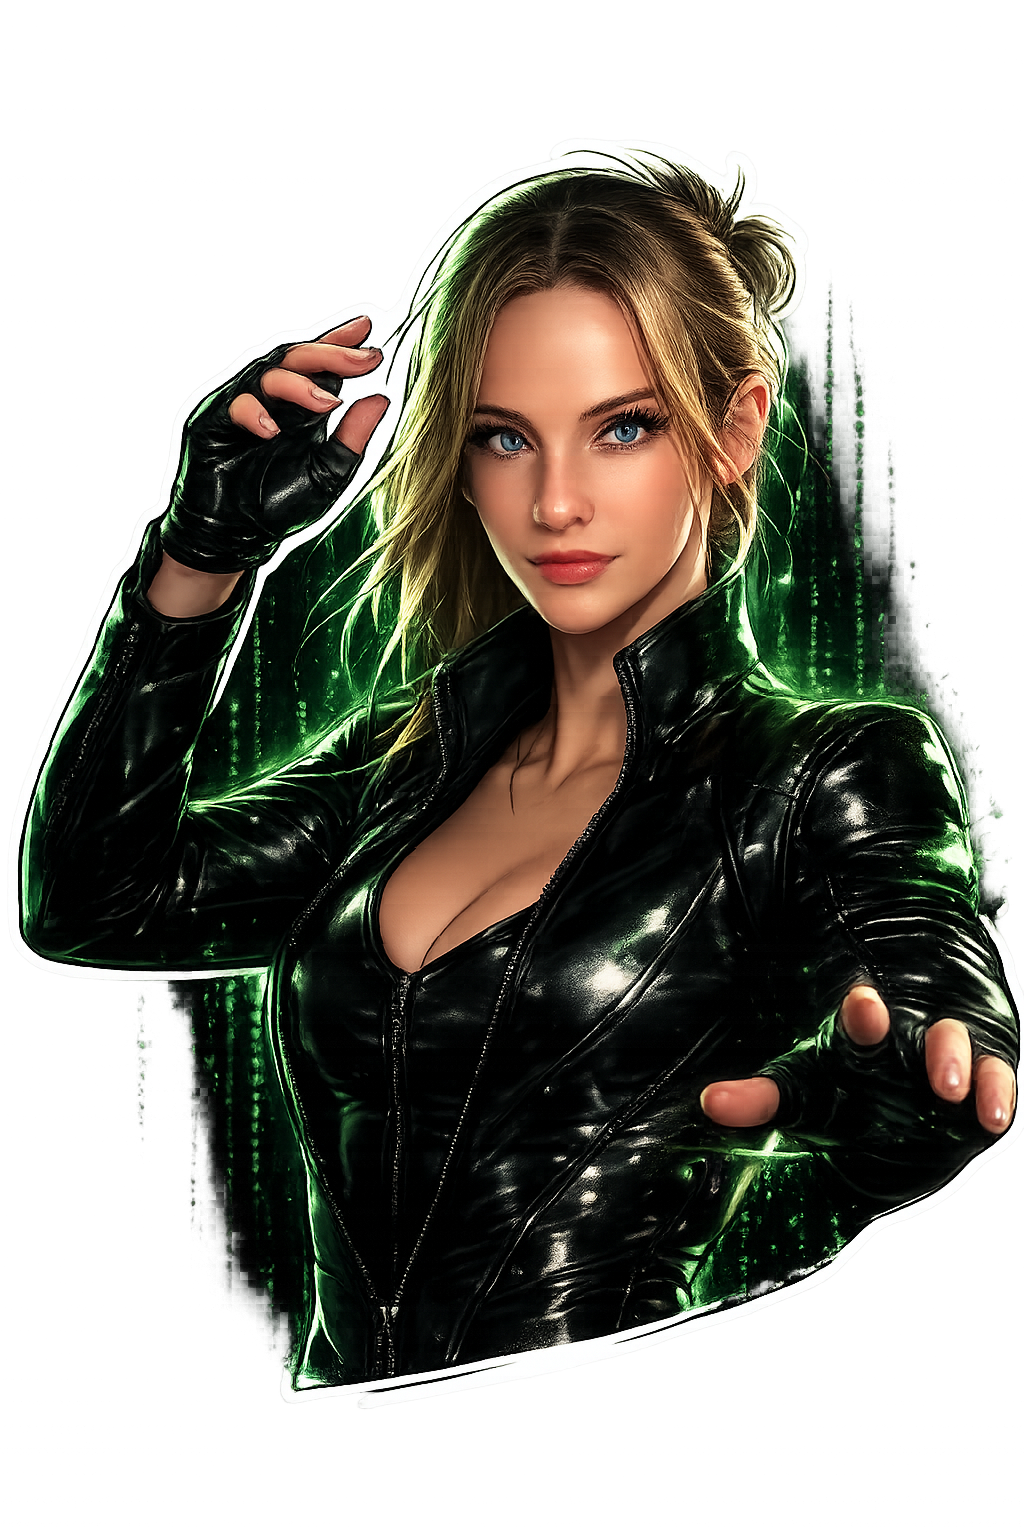
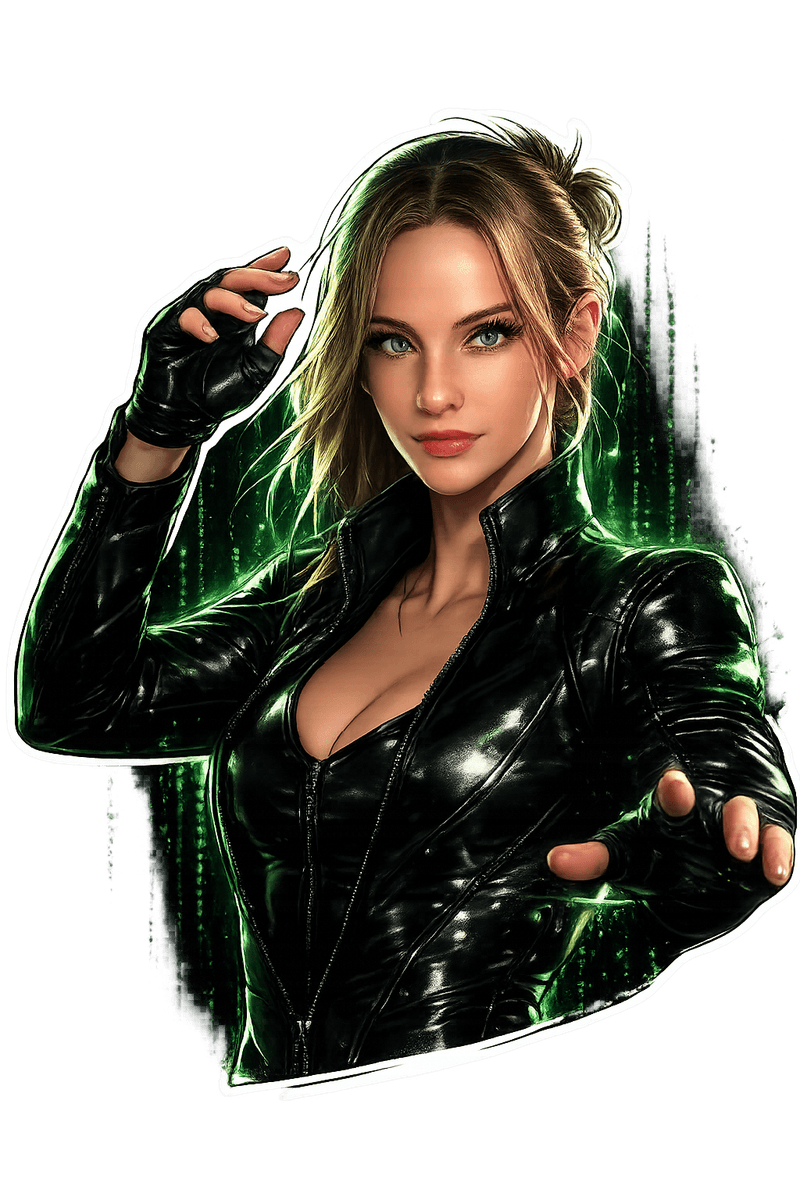
feat: update build command and add image optimization script
- Changed build command from npm to pnpm in netlify.toml for consistency.
- Added prebuild and optimize-images scripts in package.json to automate image optimization.
- Introduced sharp dependency for image processing and added a new optimize-images.js script to compress images over a specified size.
- Updated pnpm-lock.yaml to include sharp dependency.
- Modified several image files in the public directory for optimization.

diff --git a/scripts/optimize-images.js b/scripts/optimize-images.js
@@ -1,0 +1,148 @@
+#!/usr/bin/env node
+
+/**
+ * Image Optimization Script
+ * Automatically compresses PNG/JPG images that are over the size threshold.
+ * Run manually: node scripts/optimize-images.js
+ * Runs automatically before build via package.json
+ */
+
+const sharp = require('sharp');
+const fs = require('fs');
+const path = require('path');
+
+// Configuration
+const CONFIG = {
+  // Directories to scan for images
+  directories: ['./public/images', './public/music'],
+  // Only optimize images larger than this (in bytes)
+  sizeThreshold: 500 * 1024, // 500KB
+  // Maximum dimensions (maintains aspect ratio)
+  maxWidth: 1200,
+  maxHeight: 1200,
+  // Quality settings
+  pngQuality: 80,
+  jpegQuality: 85,
+  // Compression level for PNG (0-9)
+  compressionLevel: 9,
+};
+
+async function findImages(dir, images = []) {
+  if (!fs.existsSync(dir)) return images;
+
+  const entries = fs.readdirSync(dir, { withFileTypes: true });
+
+  for (const entry of entries) {
+    const fullPath = path.join(dir, entry.name);
+
+    if (entry.isDirectory()) {
+      await findImages(fullPath, images);
+    } else if (/\.(png|jpg|jpeg)$/i.test(entry.name)) {
+      images.push(fullPath);
+    }
+  }
+
+  return images;
+}
+
+async function optimizeImage(filePath) {
+  const stats = fs.statSync(filePath);
+  const sizeBefore = stats.size;
+
+  // Skip if under threshold
+  if (sizeBefore <= CONFIG.sizeThreshold) {
+    return { skipped: true, reason: 'under threshold' };
+  }
+
+  const ext = path.extname(filePath).toLowerCase();
+  const tempPath = filePath + '.tmp';
+
+  try {
+    let pipeline = sharp(filePath).resize(CONFIG.maxWidth, CONFIG.maxHeight, {
+      fit: 'inside',
+      withoutEnlargement: true,
+    });
+
+    if (ext === '.png') {
+      pipeline = pipeline.png({
+        quality: CONFIG.pngQuality,
+        compressionLevel: CONFIG.compressionLevel,
+      });
+    } else {
+      pipeline = pipeline.jpeg({
+        quality: CONFIG.jpegQuality,
+        mozjpeg: true,
+      });
+    }
+
+    await pipeline.toFile(tempPath);
+
+    // Only replace if we actually made it smaller
+    const newStats = fs.statSync(tempPath);
+    if (newStats.size < sizeBefore) {
+      fs.renameSync(tempPath, filePath);
+      return {
+        optimized: true,
+        sizeBefore,
+        sizeAfter: newStats.size,
+        reduction: Math.round((1 - newStats.size / sizeBefore) * 100),
+      };
+    } else {
+      fs.unlinkSync(tempPath);
+      return { skipped: true, reason: 'no size improvement' };
+    }
+  } catch (error) {
+    if (fs.existsSync(tempPath)) fs.unlinkSync(tempPath);
+    return { error: error.message };
+  }
+}
+
+function formatSize(bytes) {
+  if (bytes < 1024) return bytes + 'B';
+  if (bytes < 1024 * 1024) return (bytes / 1024).toFixed(1) + 'KB';
+  return (bytes / 1024 / 1024).toFixed(2) + 'MB';
+}
+
+async function main() {
+  console.log('🖼  Scanning for images to optimize...\n');
+
+  let allImages = [];
+  for (const dir of CONFIG.directories) {
+    allImages = await findImages(dir, allImages);
+  }
+
+  if (allImages.length === 0) {
+    console.log('No images found.');
+    return;
+  }
+
+  let optimizedCount = 0;
+  let skippedCount = 0;
+  let totalSaved = 0;
+
+  for (const imagePath of allImages) {
+    const relativePath = path.relative('.', imagePath);
+    const result = await optimizeImage(imagePath);
+
+    if (result.optimized) {
+      console.log(
+        `✅ ${relativePath}: ${formatSize(result.sizeBefore)} → ${formatSize(result.sizeAfter)} (-${result.reduction}%)`
+      );
+      optimizedCount++;
+      totalSaved += result.sizeBefore - result.sizeAfter;
+    } else if (result.skipped) {
+      skippedCount++;
+    } else if (result.error) {
+      console.log(`❌ ${relativePath}: ${result.error}`);
+    }
+  }
+
+  console.log('\n📊 Summary:');
+  console.log(`   Optimized: ${optimizedCount} images`);
+  console.log(`   Skipped: ${skippedCount} images (already optimized)`);
+  if (totalSaved > 0) {
+    console.log(`   Total saved: ${formatSize(totalSaved)}`);
+  }
+}
+
+main().catch(console.error);
